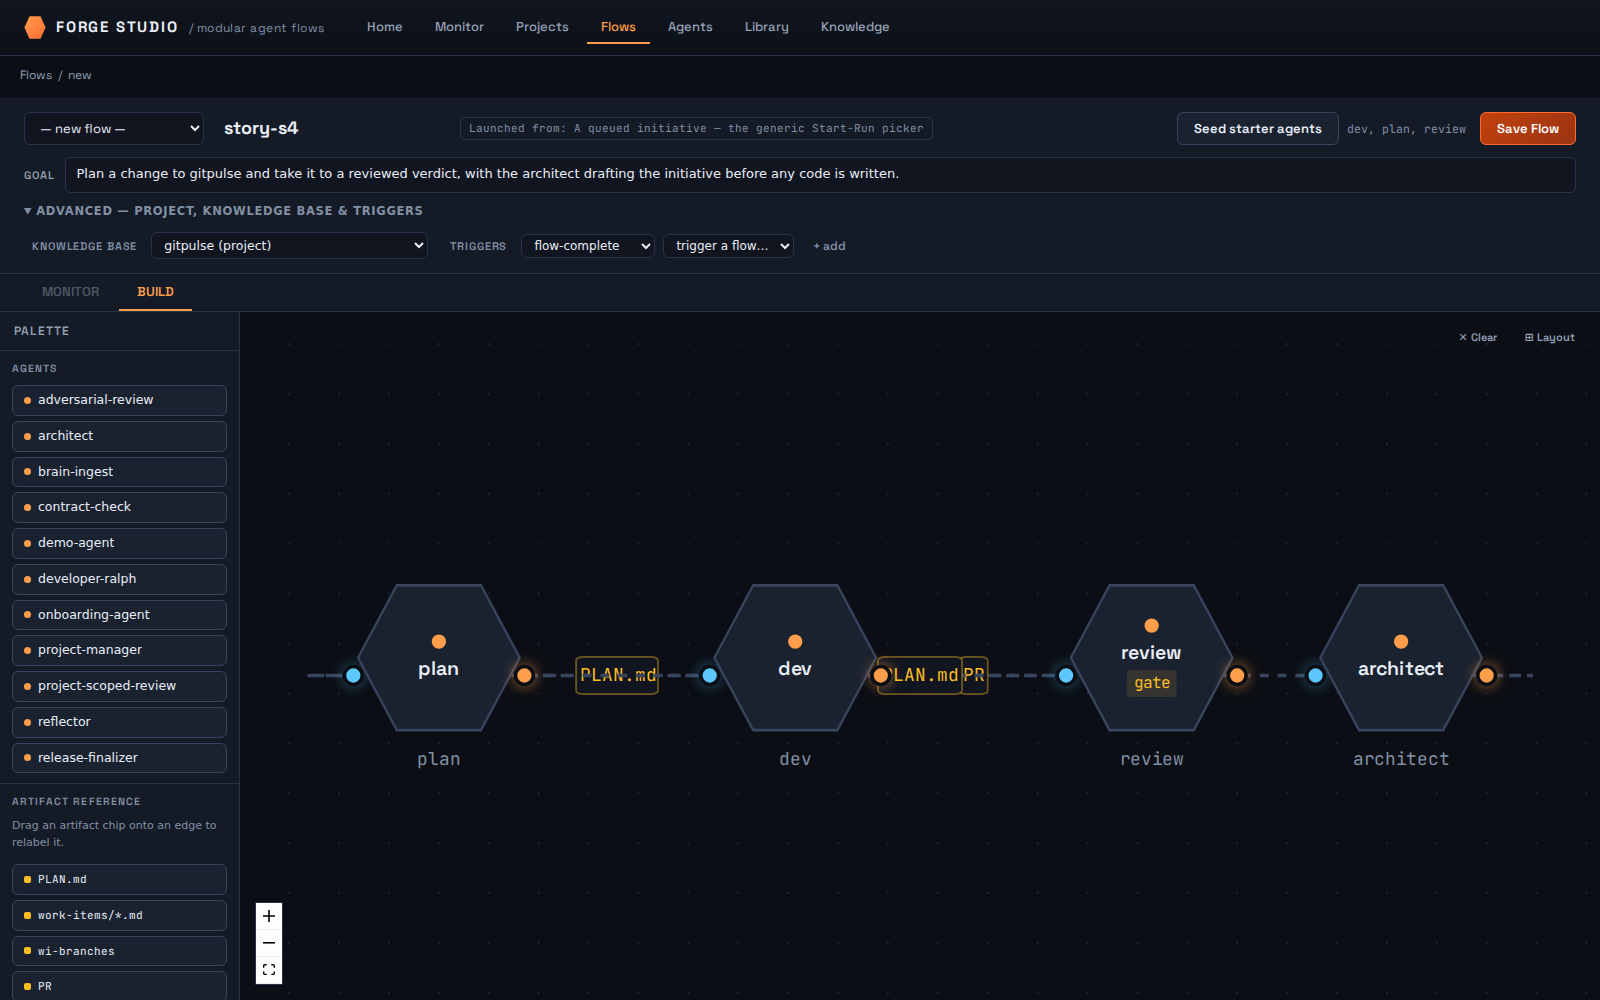
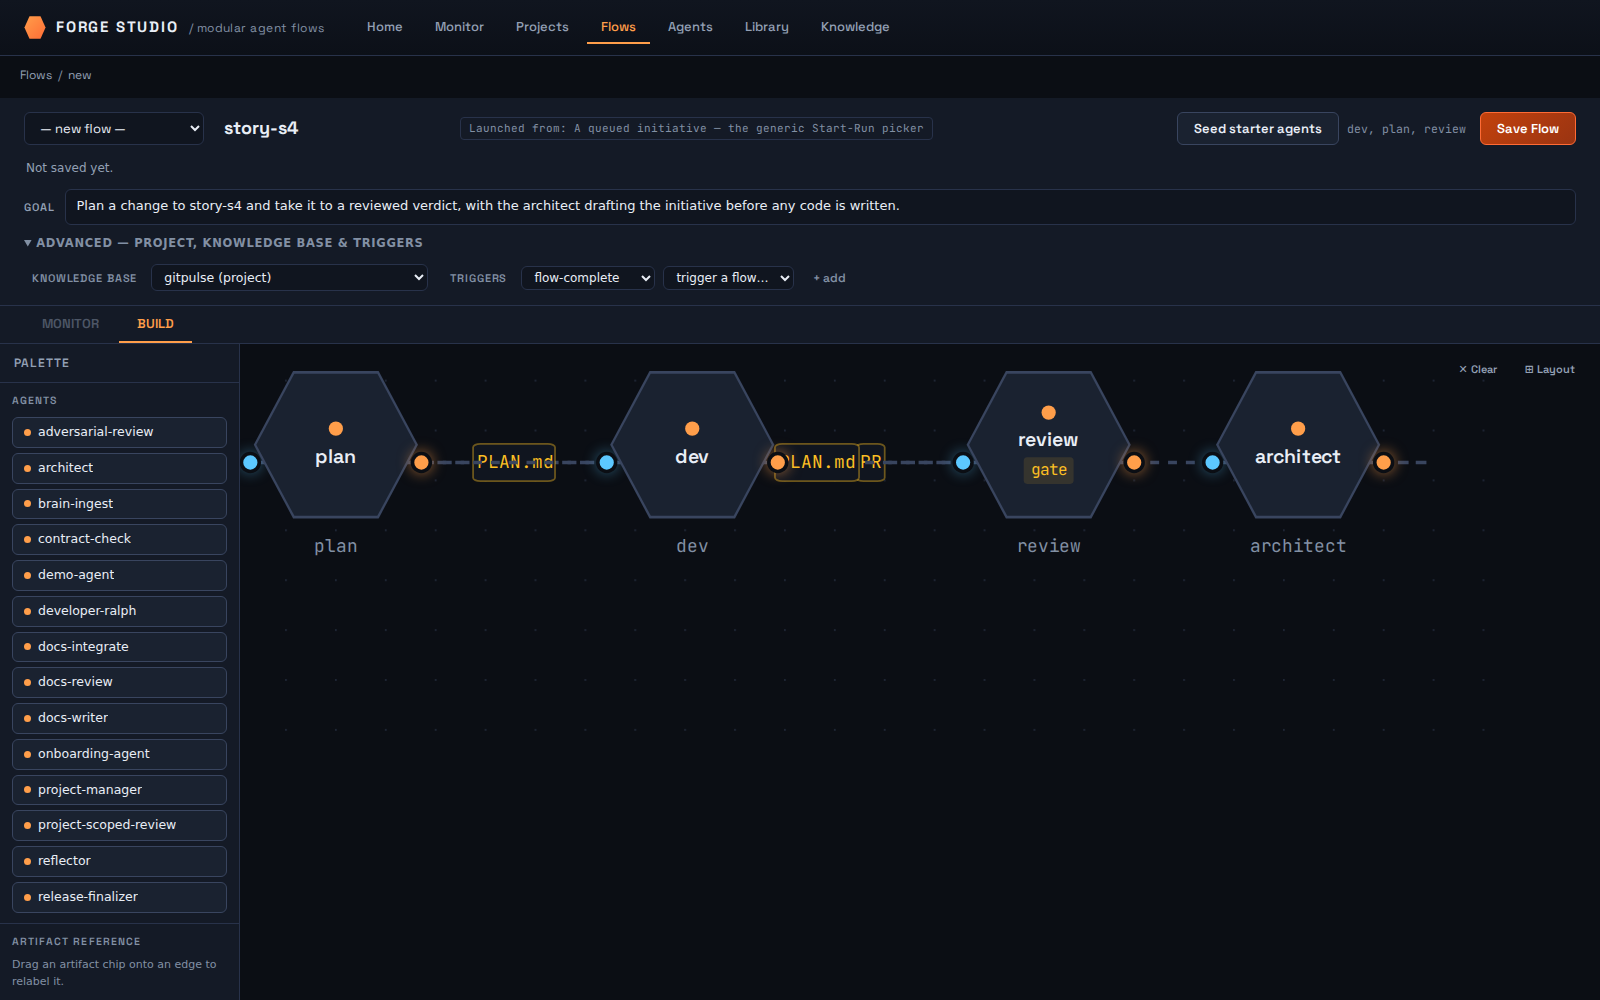
stories(S4): regenerated artifacts from funded proof run 3 (13/13 green on the node-cli-with-tests fixture)

diff --git a/demos/stories/index.html b/demos/stories/index.html
@@ -51,7 +51,6 @@
   <section class="story green">
     <h2>S4 — Create a new flow</h2>
     <p class="verdict green">green · 13/13 beats green</p>
-    <p class="stale-badge">no digest — recorded before provenance</p>
     <video src="S4/story.webm" poster="S4/frames/01-open-studio-on-the-flows-pillar.png" autoplay loop muted playsinline></video>
   </section>
   <section class="story green">

diff --git a/docs/tutorials/S4.md b/docs/tutorials/S4.md
@@ -10,7 +10,7 @@ generated_from: tests/stories/S4.story.mjs
 
 ## 1. Open Studio on the Flows pillar
 
-Two flows, both shipped with forge: one drafts a roadmap, one takes a decomposed initiative to a reviewed PR. They are starters. The pillar says so on the page — "every flow below is a ready-made starter, build your own to customize" — and this story is the operator taking it up on that.
+Three flows, all shipped with forge: one drafts a roadmap, one takes a decomposed initiative to a reviewed PR, one writes a project’s docs. They are starters. The pillar says so on the page — "every flow below is a ready-made starter, build your own to customize" — and this story is the operator taking it up on that.
 
 ![Open Studio on the Flows pillar](frames/01-open-studio-on-the-flows-pillar.png)
 
@@ -18,7 +18,7 @@ Two flows, both shipped with forge: one drafts a roadmap, one takes a decomposed
 
 - `data-page` is `flows-index`
 - `data-page-ready` is `true`
-- `data-flow-count` is `2`
+- `data-flow-count` is `3`
 - `data-fetch-status` is `ok`
 
 </details>
@@ -74,7 +74,7 @@ This is the act the builder exists for. The starter’s "plan" station is a stub
 
 ## 5. Open Advanced and bind gitpulse’s knowledge base to the flow
 
-A flow that plans work on one project should read what forge already knows about that project. Binding the knowledge base here is what makes the difference between a planner that starts cold every run and one that has read the last six months of this repo’s own lessons.
+A flow that plans work on a project should read what forge already knows about it. `story-s4` is reprovisioned from scratch every run, so it has no knowledge base of its own yet; binding gitpulse’s real one is the closest honest stand-in, since this ground is a byte-for-byte copy of that same CLI — a planner that starts cold every run is worse than one that has read the last six months of that project’s own lessons.
 
 ![Open Advanced and bind gitpulse’s knowledge base to the flow](frames/05-open-advanced-and-bind-gitpulse-s-knowle.png)
 
@@ -142,18 +142,18 @@ How a flow is launched follows from what its first station is. This one begins w
 
 </details>
 
-## 10. Point the flow at gitpulse, describe the first piece of work, cap what the run may spend, and press "Start architect"
+## 10. Point the flow at story-s4, describe the first piece of work, cap what the run may spend, and press "Start architect"
 
 A flow built ten minutes ago is now dispatching a real Agent against a real repository, so the operator sets the ceiling before starting rather than discovering the bill afterwards. Pressing Start mints a session and shows its id on the page the operator is standing on.
 
-![Point the flow at gitpulse, describe the first piece of work, cap what the run may spend, and press "Start architect"](frames/10-point-the-flow-at-gitpulse-describe-the-.png)
+![Point the flow at story-s4, describe the first piece of work, cap what the run may spend, and press "Start architect"](frames/10-point-the-flow-at-story-s4-describe-the-.png)
 
 <details><summary>What you should see</summary>
 
 - `data-page` is `flow-monitor`
 - `data-flow-id` is `story-s4`
 - `data-section` is `new-idea`
-- `data-architect-session-id` is `2026-09-18T00-09-48-37110d26`
+- `data-architect-session-id`: `<architectSessionId>` (bound at run time: `2026-09-25T19-30-39-be6d7a3f`)
 
 </details>
 
